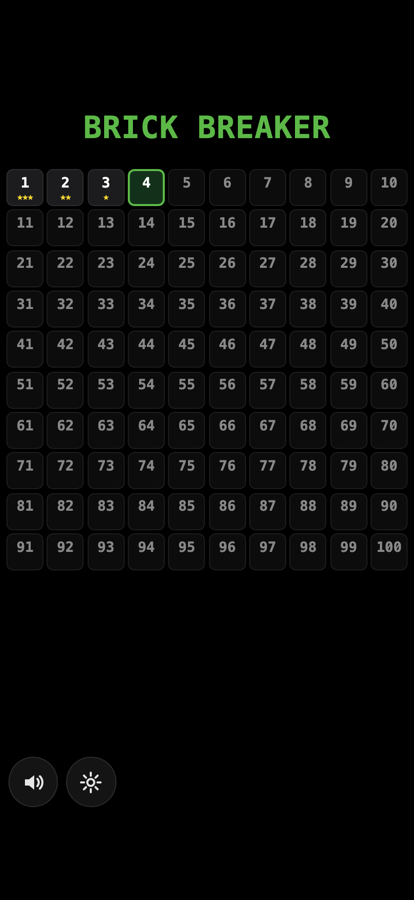
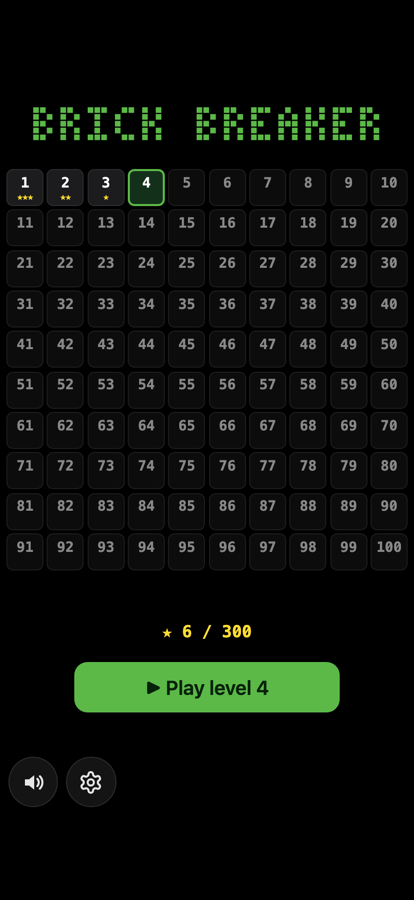
Update docs: README, CLAUDE.md and iOS plan match the current game
README: describes the sealed steel walls, canals on every level and
crumbling bricks; full settings list; pause on calls; test table covers
walls, canal seams, crumble and broken storage. New screenshots: menu
with Play button and brick title, a level with the ball inside the
canal crumbling a cavity, and the win card (docs/ready.png replaced by
docs/play.png).

CLAUDE.md: combo counts hits; only cells still standing are struck;
settings chip is a Lucide gear. PLAN-ios.md: icon source noted.

diff --git a/CLAUDE.md b/CLAUDE.md
@@ -99,8 +99,8 @@ phone with the team. Release steps are in `PLAN-ios.md`.
 - **Collision** is axis-separated (the standard tile-map method): balls move in <=3px substeps; `advance()` moves
   along x, and if the ball now overlaps a blocking cell (`overlapping()`, circle vs 5px cell) it undoes the x move
   and reflects vx; then the same along y. A ball can never end up inside a wall, and the 1px seams between wall
-  cells cannot act as surfaces. Touched cells are `strike()`n: steel only blocks, bricks crumble and block unless
-  the fireball is on. (Per-cell nearest-point normals were tried first and kept leaking balls into steel in rare
+  cells cannot act as surfaces. Touched cells still standing are struck (`strike()`): steel only blocks, bricks crumble and
+  block unless the fireball is on. (Per-cell nearest-point normals were tried first and kept leaking balls into steel in rare
   seeds, ~3 of 30.) test.js section 9 hammers the walls (fails if any ball centre enters steel or passes a side
   wall) and section 10 checks a ball can climb a canal without a seam turning it back.
 - **The rAF loop runs only while a level is on screen.** `loadLevel()` calls `wake()`; the loop stops itself
@@ -123,7 +123,7 @@ phone with the team. Release steps are in `PLAN-ios.md`.
   `update()` pauses while it is open. Reset progress is a two-tap button: web clears localStorage and reloads,
   the iOS shell receives `{type:'reset'}` and clears SwiftData, then reloads the page.
 - **Juice**: `jolt(n)` adds screen shake that `update()` decays (off under prefers-reduced-motion); each ball
-  carries a short `trail`; `combo` counts bricks since the last paddle hit, scales score and is drawn on the
+  carries a short `trail`; `combo` counts hits since the last paddle hit, scales score and is drawn on the
   playfield from 5 up. `burst()` throws confetti particles on a win (particles carry optional colour/size and draw above
   overlays). Music picks pattern and key from `SONGS` by level band (every 10 levels). Level 100 is a hand-built
   finale, special-cased where `LEVELS` is built.
@@ -148,7 +148,7 @@ Progress screen uses `ios/BrickBreaker/Localizable.xcstrings` (same five languag
 
 Everything a player taps outside the playfield is real HTML, never canvas-drawn: the level select (`goMenu()`
 renders 100 `<button>`s with labels like "Level 4, 2 of 3 stars" / "locked"; the next one to play gets class
-`next`), the icon chips at the bottom (mute with `aria-pressed` and settings on every screen, Progress on the iOS menu, pause
+`next`), the icon chips at the bottom (mute with `aria-pressed` and settings, a Lucide gear, on every screen, Progress on the iOS menu, pause
 during play; the user wants them visible while playing), the menu's "Play level N" button and
 star total, the title (an SVG drawn from bricks via `LOGO`, real text in a visually hidden span), the settings rows
 (44px `role=switch` buttons), the HUD (score, level, lives as `role=img` "3 lives") and the pause/win/over

diff --git a/README.md b/README.md
@@ -1,22 +1,24 @@
 # Brick Breaker
 
-A pixel-art Breakout game with 100 levels of dense brick fields sealed behind steel walls. The only way in is a canal: send the ball up it and break the field from the inside.
+A pixel-art Breakout game with 100 levels of dense brick fields sealed behind unbreakable steel walls. The only way in is a steel canal: send the ball up it, and every hit crumbles a chunk of bricks so the field caves in from the inside.
 
 **Play it now:** https://rezgaraam.github.io/brick-breaker/ (works offline; on iPhone, Safari → Share → Add to Home Screen)
 
 <p>
   <img src="docs/menu.png" width="240" alt="Level select with stars on cleared levels">
-  <img src="docs/ready.png" width="240" alt="A sealed brick field with a steel canal, paddle and ball">
+  <img src="docs/play.png" width="240" alt="A sealed brick field: the ball has gone up the steel canal and crumbled a cavity">
   <img src="docs/win.png" width="240" alt="Win card with two of three stars">
 </p>
 
 ## Features
 
-- 100 levels, generated from the level number: canal fields, inner steel rooms, bands, diamonds, and a hand-built finale
+- 100 levels, generated from the level number: canal fields, inner steel rooms, bands, diamonds, hand-drawn maps and a hand-built finale. Every level is sealed in a steel frame with at least one steel canal
+- Bricks crumble: a hit breaks every brick within 3 steps, but never through steel
 - Power-ups: multi-ball (x3, +3), wide paddle, fireball, slow ball, extra life, and two bad ones
 - Combo scoring, 1 to 3 stars per level, best score per level
 - Synthesized sound effects and music, no audio files
-- Pause (also automatic when you leave the app), settings, and an assisted play mode for players who can't steer
+- Pause (also automatic when you leave the app or get a call)
+- Settings: music, sound effects, haptics (iPhone), screen shake, ball speed, paddle control (follow finger or drag), assisted play for players who can't steer, language
 - English, French, German, Spanish and Persian
 - Accessible: real buttons for every control, VoiceOver labels, reduced-motion support
 - One `index.html`, no dependencies, no build step
@@ -46,7 +48,7 @@ A free Apple account works; the app then needs reinstalling every 7 days.
 
 | Command | Checks |
 |---|---|
-| `node test.js` | Every brick in all 100 levels is reachable by the ball, game rules, pause, assisted play, translation completeness |
+| `node test.js` | All 100 levels sealed with a canal and every brick reachable; balls never enter or pass steel (fireball included); canal seams; crumble; broken storage still loads; pause, assisted play, translations |
 | `node bench.js <chromium> "$PWD/index.html"` | No dropped frames on level 100 with 20 balls at 4x CPU throttle |
 | `node pwa-check.js <chromium> .` | Installable, cached, loads offline |
 | `ios/check.sh` | Swift package tests, simulator build, UI tests, Apple accessibility audits |

diff --git a/PLAN-ios.md b/PLAN-ios.md
@@ -3,7 +3,8 @@
 ## Done
 
 SwiftUI shell + WKWebView around `index.html`, SwiftData progress store, native Progress sheet (5 languages),
-haptics, auto-pause on resign-active, package tests, UI tests + accessibility audits, App Store icon,
+haptics, auto-pause on resign-active, package tests, UI tests + accessibility audits, App Store icon (source
+`docs/icon.html`),
 automatic signing with a gitignored team file, `ios/run-device.sh`. Installed and played on an iPhone 17 Pro
 with a free personal team (7-day installs). See CLAUDE.md "iOS app".
 
